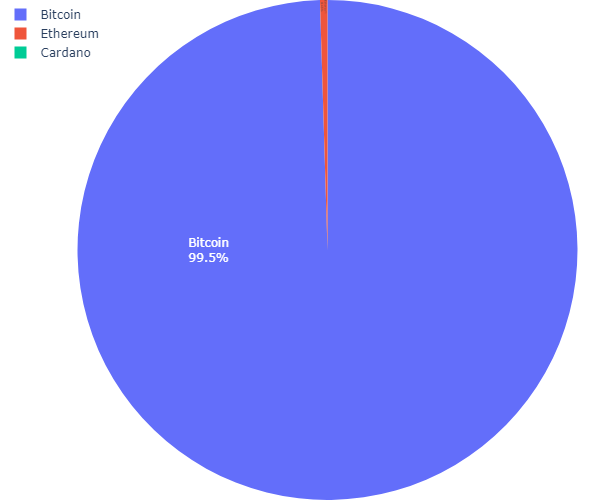
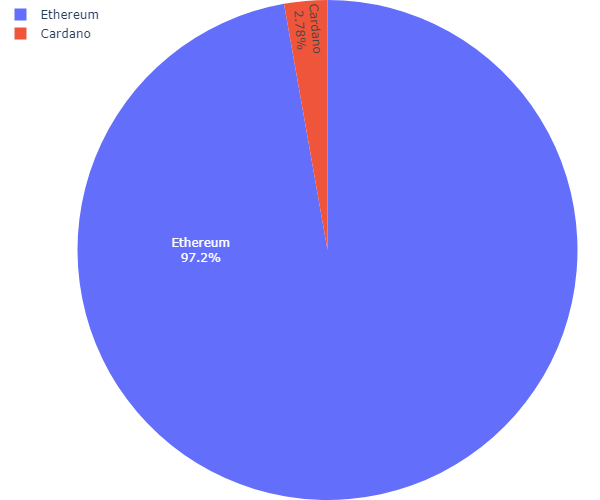
portfolio done

Changed region(s): [[0.45, 0.0, 0.57, 0.48], [0.0, 0.0, 0.18, 0.12], [0.27, 0.48, 0.39, 0.54]]

diff --git a/templates/log_reg.html b/templates/log_reg.html
@@ -16,11 +16,6 @@
   </style>
 </head>
 <body>
-{% if error == 0 %}
-    <div style="text-align: center" class="alert alert-primary" role="alert">
-      Invalid Username or Password
-    </div>
-{% endif %}
 
 <div style="display: flex; align-items: center; margin-top: 10px">
 <button onclick=location.href="{{url_for('home')}}" type="button" class="btn btn-outline-info">Back to Home Page</button>
@@ -62,6 +57,15 @@
       <div class="col-12">
         <button type="submit" class="btn btn-primary">Sign in</button>
       </div>
+         {% with messages = get_flashed_messages(with_categories=true) %}
+  {% if messages %}
+    <ul class="flashes">
+      {% for category, message in messages %}
+        <li class="{{ category }}">{{ message }}</li>
+      {% endfor %}
+    </ul>
+  {% endif %}
+{% endwith %}
        </form>
     </div>
   </div>

diff --git a/portfolio.py b/portfolio.py
@@ -1,7 +1,6 @@
 import psycopg2
 from cryptocurrency import Cryptocurrency
 import plotly.graph_objs as go
-import pandas as pd
 
 crypto = Cryptocurrency()
 data = crypto.get_data()
@@ -14,17 +13,17 @@ class Portfolio():
         self.conn = psycopg2.connect(host="localhost", dbname="Users", user="postgres", password="postgresql",
                                      port=5432)
         self.cur = self.conn.cursor()
+        self.cur.execute("""CREATE TABLE IF NOT EXISTS portfolio (
+                                   id INT GENERATED ALWAYS AS IDENTITY PRIMARY KEY NOT NULL,
+                                   user_id int NOT NULL,
+                                   asset varchar(40) NOT NULL,
+                                   amount decimal NOT NULL,
+                                   price decimal NOT NULL,
+                                   transaction_type varchar(5) NOT NULL)
+            """)
+        self.conn.commit()
 
     def add_transaction(self, user_id, asset, amount, price, transaction_type):
-        self.cur.execute("""CREATE TABLE IF NOT EXISTS portfolio (
-                            id int PRIMARY KEY NOT NULL,
-                            user_id int NOT NULL,
-                            asset varchar(40) NOT NULL,
-                            amount decimal NOT NULL,
-                            price decimal NOT NULL,
-                            transaction_type varchar(5) NOT NULL)
-     """)
-        self.conn.commit()
         # Check if asset exist in list
         if asset not in crypto_name:
             return f"{asset} doesn't exist"
@@ -61,7 +60,7 @@ class Portfolio():
 
     # Create pie chart for users portfolio
     def pie_chart(self):
-        values = self.user_portfolio(userid=2)
+        values = self.user_portfolio(userid=22)
         val = [x[1] * x[2] for x in values]
         data = [y[0] for y in values]
         trace = go.Pie(

diff --git a/main.py b/main.py
@@ -96,7 +96,8 @@ def trade():
     amount = request.form.get("amount")
     price = request.form.get("price")
     transaction_type = request.form.get("action")
-    return Portfolio().add_transaction(userid, asset, amount, price, transaction_type)
+    Portfolio().add_transaction(userid, asset, amount, price, transaction_type)
+    return redirect(url_for("portfolio"))
 
 
 @app.route("/cryptocurrency/<crypto_currency>")
